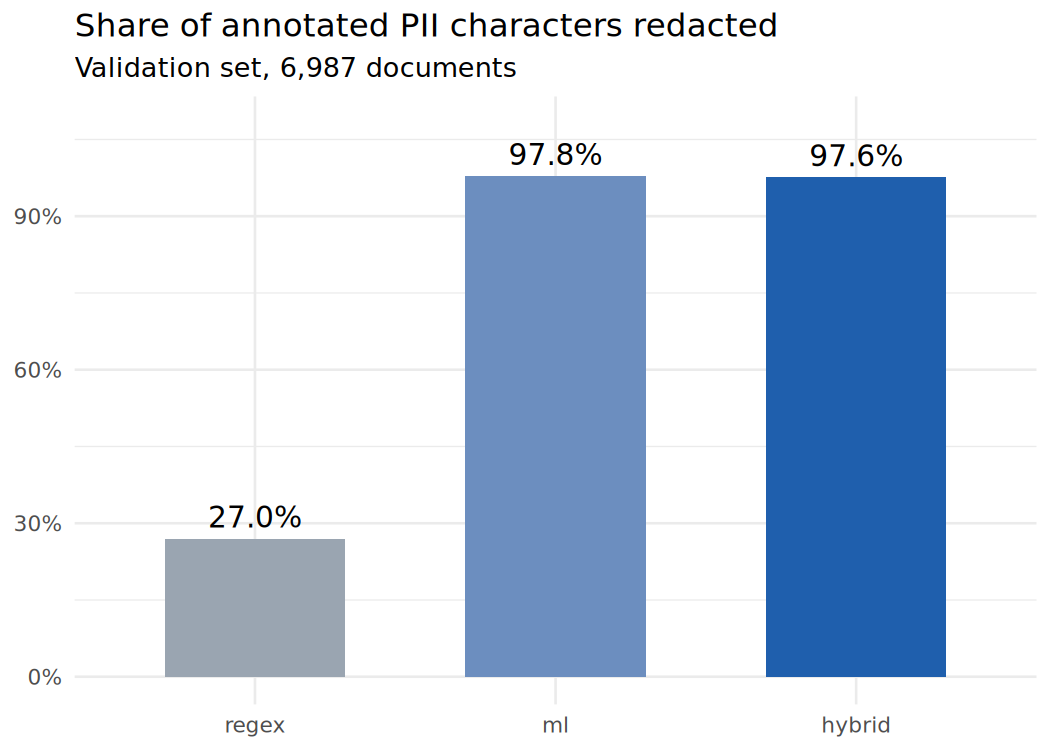
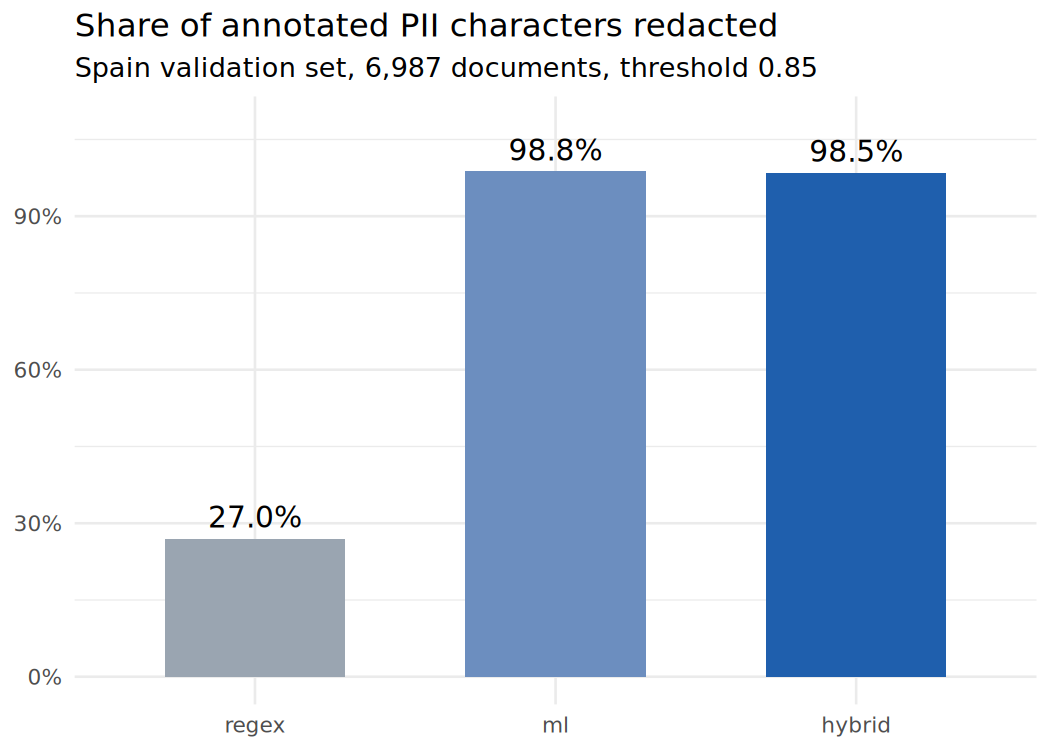
A7: export leak rates, MX before/after and end-to-end sweep; hero, MX and sweep charts

Changed region(s): [[0.061, 0.0613, 0.7924, 0.1227], [0.4267, 0.184, 0.6095, 0.2453], [0.7314, 0.184, 0.8838, 0.2453]]

diff --git a/scripts/export_metrics.py b/scripts/export_metrics.py
@@ -48,7 +48,28 @@ write("dev_by_group.csv", ["group", "metric", "value"],
       [[g, metric, m[metric]] for g, m in dev["per_group"].items()
        for metric in ("precision", "recall", "f1")])
 
-# From the full training run (23,144 docs, dev split, token level).
+# Token level, dev split, from the full training run (23,144 docs). Figure 03 only;
+# the end-to-end sweep (threshold_sweep.csv) is the source for figure 08.
 write("threshold_tradeoff.csv", ["threshold", "precision", "recall"],
       [[0.5, 0.953, 0.962], [0.7, 0.940, 0.980],
        [0.85, 0.917, 0.990], [0.95, 0.856, 0.996]])
+
+# A7: leak rate per detector (Spain) + hybrid on the synthetic Mexican set.
+mx = json.load(open("reports/metrics_mx.json", encoding="utf-8"))
+rows = [[det, "spain", r["leak_rate"], r["char_coverage_all_pii"]] for det, r in R.items()]
+rows.append(["hybrid", "mx_synthetic", mx["after"]["leak_rate"], mx["after"]["char_coverage_all_pii"]])
+write("leak_by_detector.csv", ["detector", "set", "leak_rate", "coverage"], rows)
+
+# A7: MX per-type results before vs after the A5 Mexican rules.
+write("mx_before_after.csv",
+      ["type", "gold", "stage", "recall", "leak_rate", "f1"],
+      [[t["type"], t["gold"], stage, t[f"recall_{stage}"], t[f"leak_{stage}"], t[f"f1_{stage}"]]
+       for t in mx["per_type_overlap"] for stage in ("before", "after")])
+
+# A7: end-to-end hybrid threshold sweep (A6). The token-level table above is kept
+# for figure 03; this one drives figure 08.
+sweep = json.load(open("reports/threshold_sweep.json", encoding="utf-8"))
+write("threshold_sweep.csv",
+      ["threshold", "set", "leak_rate", "char_coverage", "micro_precision"],
+      [[s["threshold"], s["set"], s["leak_rate"], s["char_coverage"], s["micro_precision"]]
+       for s in sweep])
